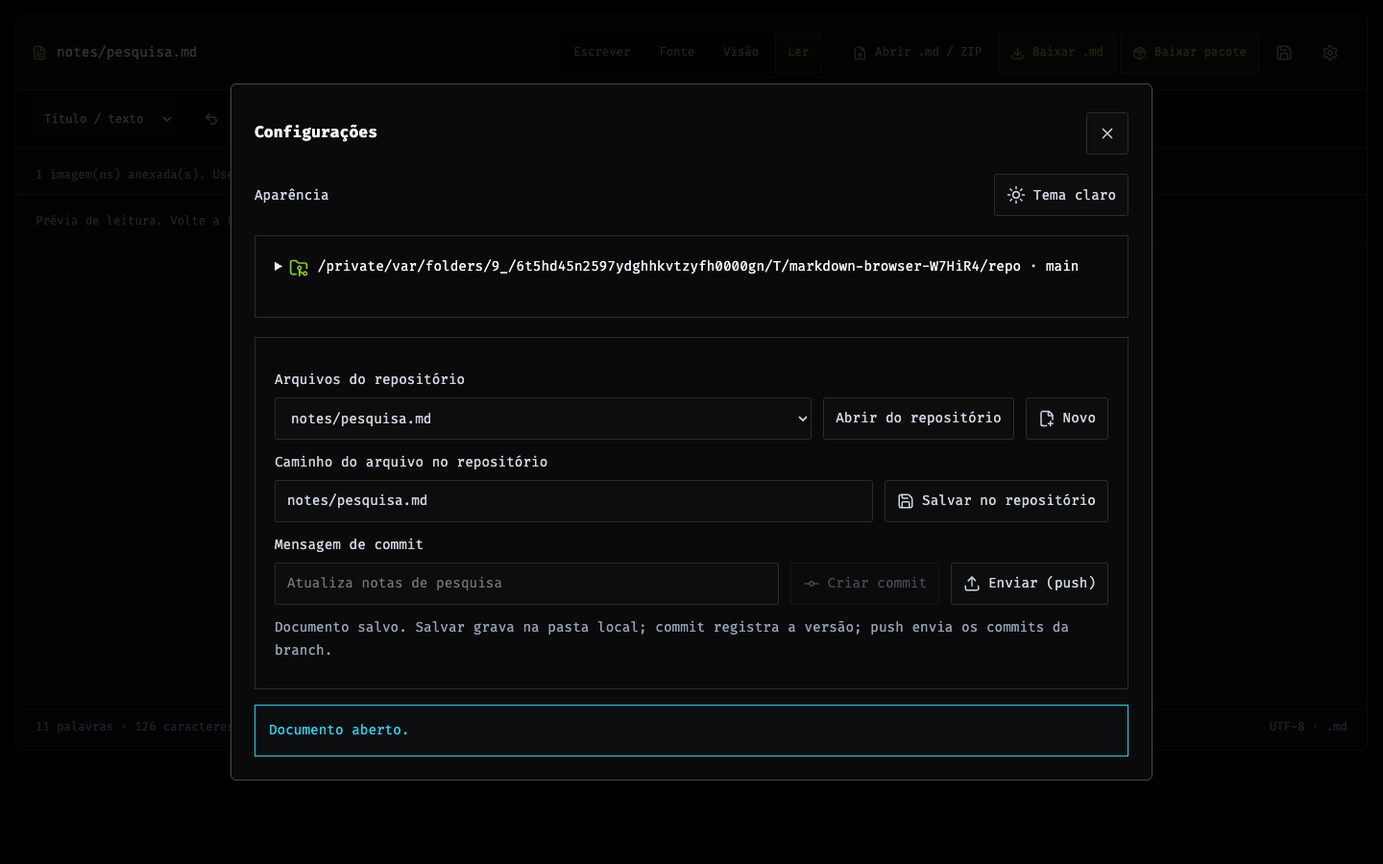
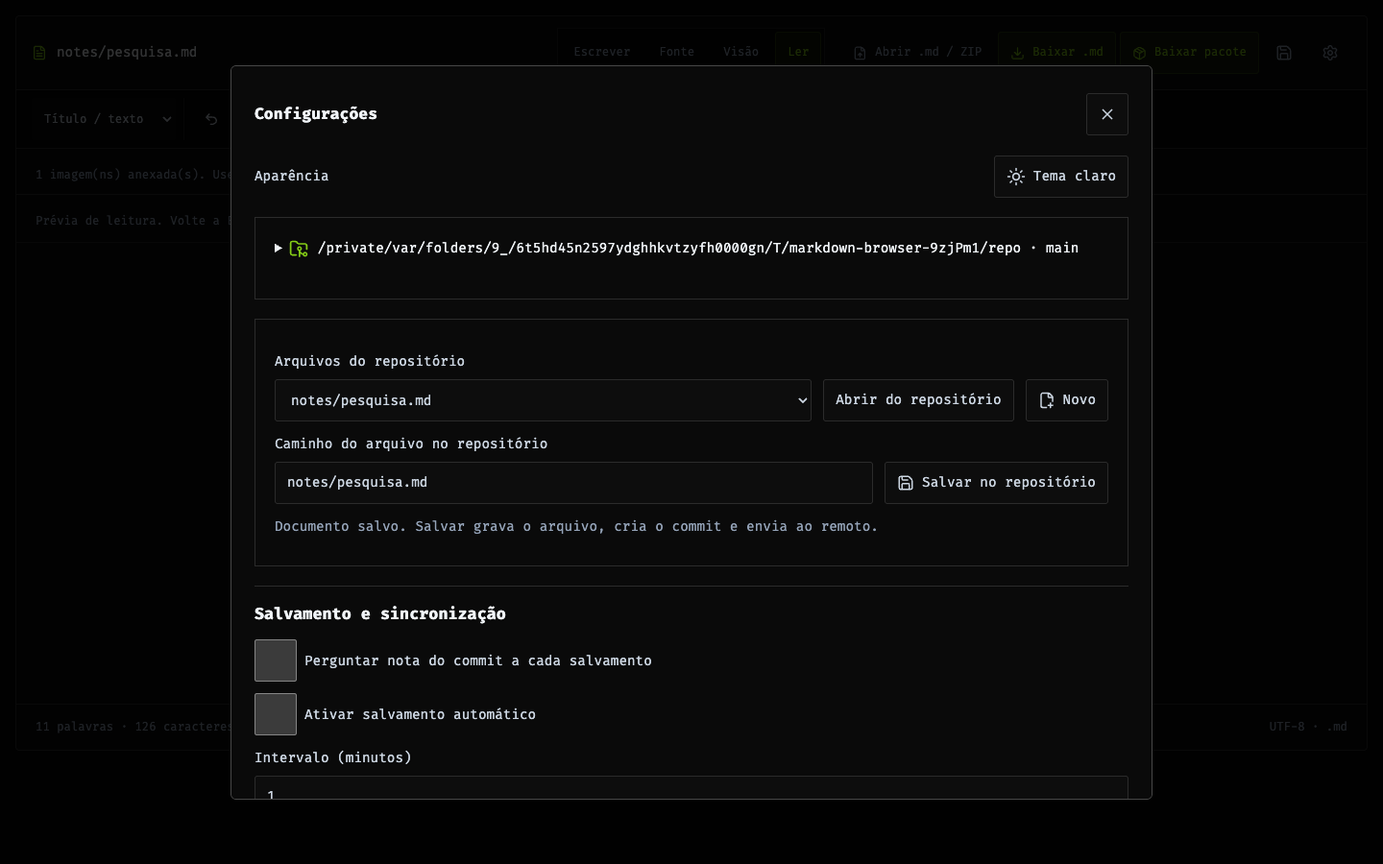
feat: commit and push on save with configurable autosave and notes

diff --git a/src/main.tsx b/src/main.tsx
@@ -1,6 +1,6 @@
-import { StrictMode, useEffect, useState } from 'react';
+import { StrictMode, useEffect, useRef, useState } from 'react';
 import { createRoot } from 'react-dom/client';
-import { FolderGit2, FolderOpen, Save, GitCommitHorizontal, Upload, Sun, Moon, FilePlus2, Settings, X } from 'lucide-react';
+import { FolderGit2, FolderOpen, Save, Upload, Sun, Moon, FilePlus2, Settings, X } from 'lucide-react';
 import { MarkdownWorkbench } from './components/Markdown/MarkdownWorkbench';
 import { EditorDialog } from './components/Markdown/EditorDialog';
 import type { MarkdownAsset } from './lib/markdown/assets';
@@ -16,6 +16,25 @@ interface RepositoryInfo {
   /** Human-readable Git short status. */
   status: string;
 }
+interface SavePreferences {
+  /** Ask for a commit note before each manual or scheduled save. */
+  askCommitNote: boolean;
+  /** Enable scheduled save/commit/push while the editor is open. */
+  autoSave: boolean;
+  /** Schedule interval in whole minutes, between 1 and 1440. */
+  intervalMinutes: number;
+}
+interface SaveResult {
+  /** Hash of the content successfully written to disk, even if Git failed. */
+  version: string;
+  /** Whether the saved document has been committed and pushed. */
+  synced: boolean;
+  /** Git operation that remains pending after a partial failure. */
+  stage?: 'commit' | 'push';
+  /** Readable Git failure returned with a successful local save. */
+  error?: string;
+}
+const defaultPreferences: SavePreferences = { askCommitNote: false, autoSave: false, intervalMinutes: 1 };
 interface DocumentFile {
   /** Document-relative image path. */
   path: string;
@@ -55,15 +74,21 @@ function App() {
   const [files, setFiles] = useState<string[]>([]);
   const [selected, setSelected] = useState('');
   const [name, setName] = useState('documento.md');
-  const [loadedName, setLoadedName] = useState('');
+  const [loadedName, setLoadedName] = useState('documento.md');
   const [value, setValue] = useState('# Meu documento\n\nComece a escrever.\n');
-  const [baseline, setBaseline] = useState('');
+  const [baseline, setBaseline] = useState('# Meu documento\n\nComece a escrever.\n');
   const [version, setVersion] = useState<string | null>(null);
   const [assets, setAssets] = useState<MarkdownAsset[]>([]);
   const [initialAssets, setInitialAssets] = useState<{path: string; file: File}[]>([]);
   const [documentId, setDocumentId] = useState(0);
   const [saveRevision, setSaveRevision] = useState(0);
-  const [message, setMessage] = useState('');
+  const [preferences, setPreferences] = useState<SavePreferences>(defaultPreferences);
+  const [preferenceDraft, setPreferenceDraft] = useState<SavePreferences>(defaultPreferences);
+  const [commitNoteOpen, setCommitNoteOpen] = useState(false);
+  const [commitNote, setCommitNote] = useState('');
+  const [pendingSync, setPendingSync] = useState(false);
+  const operationLock = useRef(false);
+  const autoSaveAction = useRef<() => void>(() => {});
   const [notice, setNotice] = useState('');
   const [error, setError] = useState('');
   const [busy, setBusy] = useState(false);
@@ -75,16 +100,18 @@ function App() {
     setFiles(info.repository ? await api<string[]>('files') : []);
     return info;
   }
-  useEffect(() => { void refresh().then(info => setSettingsOpen(!info.repository)).catch(cause => { setError(cause.message); setSettingsOpen(true); }); }, []);
+  useEffect(() => { void Promise.all([refresh(), api<SavePreferences>('preferences')]).then(([info, saved]) => { if (!info.repository) setSettingsOpen(true); setPreferences(saved); setPreferenceDraft(saved); }).catch(cause => { setError(cause.message); setSettingsOpen(true); }); }, []);
   useEffect(() => {
     if (!dirty) return;
     const warn = (event: BeforeUnloadEvent) => { event.preventDefault(); event.returnValue = ''; };
     window.addEventListener('beforeunload', warn); return () => window.removeEventListener('beforeunload', warn);
   }, [dirty]);
   async function run(action: () => Promise<void>) {
+    if (operationLock.current) return;
+    operationLock.current = true;
     setBusy(true); setError(''); setNotice('');
     try { await action(); } catch (cause) { setError(cause instanceof Error ? cause.message : String(cause)); }
-    finally { setBusy(false); }
+    finally { operationLock.current = false; setBusy(false); }
   }
   async function chooseRepository() {
     if (!discard()) return;
@@ -107,14 +134,31 @@ function App() {
   }
   const discard = () => !dirty || window.confirm('Há alterações não salvas. Deseja substituí-las?');
   function resetDocument(text = '', fileName = 'documento.md', hash: string | null = null, attached: {path: string; file: File}[] = []) {
-    setValue(text); setBaseline(text); setName(fileName); setLoadedName(hash ? fileName : ''); setVersion(hash);
-    setAssets([]); setInitialAssets(attached); setDocumentId(id => id + 1); setSaveRevision(0);
+    setValue(text); setBaseline(text); setName(fileName); setLoadedName(fileName); setVersion(hash);
+    setPendingSync(false); setAssets([]); setInitialAssets(attached); setDocumentId(id => id + 1); setSaveRevision(0);
   }
-  async function save() {
-    const result = await api<{version: string}>('save', { name, value, version: name === loadedName ? version : null, files: await Promise.all(assets.map(encodeAsset)) });
+  async function save(note: string) {
+    const result = await api<SaveResult>('save-sync', { name, value, message: note, version: name === loadedName ? version : null, files: await Promise.all(assets.map(encodeAsset)) });
     setVersion(result.version); setBaseline(value); setLoadedName(name); setSaveRevision(revision => revision + 1);
-    await refresh(); setNotice('Documento e imagens salvos no repositório local.');
+    setPendingSync(!result.synced);
+    await refresh();
+    if (result.synced) setNotice('Arquivo salvo, commit criado e enviado ao remoto.');
+    else setError(`Arquivo salvo localmente. ${result.stage === 'commit' ? 'Commit pendente' : 'Push pendente'}: ${result.error} Use Salvar novamente para tentar sincronizar.`);
   }
+  function requestSave(automatic = false) {
+    if (operationLock.current || busy || commitNoteOpen || !repository.repository) return;
+    if (preferences.askCommitNote) {
+      setCommitNote(''); setSettingsOpen(false); setCommitNoteOpen(true);
+    } else void run(() => save(`${automatic ? 'Auto-save' : 'Update'} ${name}`));
+  }
+  autoSaveAction.current = () => {
+    if ((dirty || pendingSync) && !busy && !settingsOpen && !commitNoteOpen) requestSave(true);
+  };
+  useEffect(() => {
+    if (!preferences.autoSave || !repository.repository) return;
+    const interval = window.setInterval(() => autoSaveAction.current(), preferences.intervalMinutes * 60000);
+    return () => window.clearInterval(interval);
+  }, [preferences.autoSave, preferences.intervalMinutes, repository.repository]);
   useEffect(() => {
     if (!notice) return;
     const timeout = window.setTimeout(() => setNotice(''), 4500);
@@ -124,7 +168,7 @@ function App() {
     const shortcut = (event: KeyboardEvent) => {
       if ((event.metaKey || event.ctrlKey) && event.key.toLowerCase() === 's') {
         event.preventDefault();
-        if (repository.repository && !busy) void run(save);
+        if (repository.repository && !busy) requestSave();
       }
     };
     window.addEventListener('keydown', shortcut);
@@ -144,15 +188,33 @@ function App() {
     </details>
     <fieldset className="document-controls" disabled={busy}>
       <div className="row"><label className="grow">Arquivos do repositório<select aria-label="Arquivos do repositório" value={selected} onChange={event => setSelected(event.target.value)}><option value="">Selecione um Markdown</option>{files.map(file => <option key={file} value={file}>{file}</option>)}</select></label><button disabled={!selected || !repository.repository} onClick={() => { if (!discard()) return; void run(async () => { const doc = await api<LoadedDocument>(`document?name=${encodeURIComponent(selected)}`); const attached = doc.files.map(file => ({ path: file.path, file: new File([Uint8Array.from(atob(file.data), char => char.charCodeAt(0))], file.path.split('/').at(-1)!, { type: file.mime }) })); resetDocument(doc.value, selected, doc.version, attached); setSettingsOpen(false); setNotice(doc.warnings.length ? `Aberto com avisos: ${doc.warnings.join('; ')}` : 'Documento aberto.'); }); }}>Abrir do repositório</button><button onClick={() => { if (discard()) { resetDocument(); setSettingsOpen(false); } }}><FilePlus2 size={18}/>Novo</button></div>
-      <div className="row"><label className="grow">Caminho do arquivo no repositório<input value={name} onChange={event => setName(event.target.value)} placeholder="notas/documento.md"/></label><button disabled={!repository.repository} onClick={() => void run(save)}><Save size={18}/>Salvar no repositório</button></div>
-      <div className="row"><label className="grow">Mensagem de commit<input value={message} onChange={event => setMessage(event.target.value)} placeholder="Atualiza notas de pesquisa"/></label><button disabled={!repository.repository || dirty || !message.trim()} onClick={() => void run(async () => { await api('commit', { name, message, assets: assets.map(asset => asset.path) }); await refresh(); setNotice('Commit criado. Use Enviar para publicar no remoto.'); })}><GitCommitHorizontal size={18}/>Criar commit</button><button disabled={!repository.repository} onClick={() => void run(async () => { await api('push', {}); await refresh(); setNotice('Commits enviados ao remoto.'); })}><Upload size={18}/>Enviar (push)</button></div>
-      <p>{busy ? 'Operação em andamento… Se abriu o seletor do macOS, escolha uma pasta ou cancele.' : dirty ? 'Há alterações não salvas no repositório.' : 'Documento salvo.'} Salvar grava na pasta local; commit registra a versão; push envia os commits da branch.</p>
+      <div className="row"><label className="grow">Caminho do arquivo no repositório<input value={name} onChange={event => setName(event.target.value)} placeholder="notas/documento.md"/></label><button disabled={!repository.repository} onClick={() => requestSave()}><Save size={18}/>Salvar no repositório</button></div>
+      {pendingSync && <button disabled={!repository.repository} onClick={() => requestSave()}><Upload size={18}/>Tentar sincronizar novamente</button>}
+      <p>{busy ? 'Salvando e sincronizando…' : pendingSync ? 'Arquivo local salvo; sincronização pendente.' : dirty ? 'Há alterações não salvas.' : 'Documento salvo.'} Salvar grava o arquivo, cria o commit e envia ao remoto.</p>
     </fieldset>
+    <section className="save-preferences" aria-label="Preferências de salvamento">
+      <h3>Salvamento e sincronização</h3>
+      <form onSubmit={event => { event.preventDefault(); void run(async () => { const saved = await api<SavePreferences>('preferences', preferenceDraft); setPreferences(saved); setPreferenceDraft(saved); setNotice('Preferências de salvamento atualizadas.'); }); }}>
+        <fieldset disabled={busy}>
+          <label className="check-option"><input type="checkbox" checked={preferenceDraft.askCommitNote} onChange={event => setPreferenceDraft({ ...preferenceDraft, askCommitNote: event.target.checked })}/>Perguntar nota do commit a cada salvamento</label>
+          <label className="check-option"><input type="checkbox" checked={preferenceDraft.autoSave} onChange={event => setPreferenceDraft({ ...preferenceDraft, autoSave: event.target.checked })}/>Ativar salvamento automático</label>
+          <label>Intervalo (minutos)<input type="number" min="1" max="1440" step="1" required value={preferenceDraft.intervalMinutes} onChange={event => setPreferenceDraft({ ...preferenceDraft, intervalMinutes: Number(event.target.value) })}/></label>
+          <p>O automático salva, cria o commit e envia ao remoto enquanto esta aba estiver aberta. Se pedir nota estiver ligado, aguarda a confirmação antes de salvar.</p>
+          <button type="submit">Salvar preferências</button>
+        </fieldset>
+      </form>
+    </section>
     {statusMessages}
     </div></EditorDialog>}
+    {commitNoteOpen && <EditorDialog title="Nota do commit" onClose={() => setCommitNoteOpen(false)}>
+      <form onSubmit={event => { event.preventDefault(); if (!commitNote.trim()) return; setCommitNoteOpen(false); void run(() => save(commitNote.trim())); }}>
+        <label>Nota do commit<textarea autoFocus required maxLength={1000} value={commitNote} onChange={event => setCommitNote(event.target.value)} placeholder="Descreva o que mudou"/></label>
+        <footer><button type="button" onClick={() => setCommitNoteOpen(false)}>Cancelar</button><button type="submit" disabled={!commitNote.trim()}>Salvar, commit e push</button></footer>
+      </form>
+    </EditorDialog>}
     {!settingsOpen && statusMessages}
     <fieldset disabled={busy} className="editor-container"><MarkdownWorkbench key={documentId} value={value} onChange={setValue} fileName={name} onFileNameChange={newName => { setName(newName); setVersion(null); setLoadedName(''); }} initialAssets={initialAssets} onAssetsChange={setAssets} saveRevision={saveRevision} readOnly={busy} actions={<>
-      {repository.repository && <button type="button" disabled={busy} aria-label="Salvar no repositório" title="Salvar no repositório (⌘S)" onClick={() => void run(save)}><Save size={18}/></button>}
+      {repository.repository && <button type="button" disabled={busy} aria-label="Salvar no repositório" title="Salvar no repositório (⌘S)" onClick={() => requestSave()}><Save size={18}/></button>}
       <button type="button" aria-label="Configurações" title="Configurações" aria-haspopup="dialog" aria-expanded={settingsOpen} onClick={() => setSettingsOpen(true)}><Settings size={18}/></button>
     </>}/></fieldset>
   </main>;

diff --git a/tests/editor.spec.ts b/tests/editor.spec.ts
@@ -53,14 +53,8 @@ for (const viewport of [{ name: 'desktop', width: 1440, height: 900 }, { name: '
       await page.getByLabel('Arquivos de imagem', { exact: true }).setInputFiles({ name: 'pixel.png', mimeType: 'image/png', buffer: image });
       await expect(page.getByText('1 imagem(ns) anexada(s).', { exact: false })).toBeVisible();
       await page.getByRole('button', { name: 'Salvar no repositório', exact: true }).click();
-      await expect(page.getByRole('status')).toHaveText('Documento e imagens salvos no repositório local.');
+      await expect(page.getByRole('status')).toHaveText('Arquivo salvo, commit criado e enviado ao remoto.');
       const saved = await readFile(join(repo,'notes/pesquisa.md'),'utf8'); expect(saved).toContain('# Pesquisa'); expect(saved).toContain('assets/');
-      await gear.click();
-      await page.getByLabel('Mensagem de commit').fill('Pesquisa com evidências');
-      await page.getByRole('button', { name: 'Criar commit' }).click();
-      await expect(page.getByRole('status')).toHaveText('Commit criado. Use Enviar para publicar no remoto.');
-      await page.getByRole('button', { name: 'Enviar (push)' }).click();
-      await expect(page.getByRole('status')).toHaveText('Commits enviados ao remoto.');
       expect(git('-C',remote,'show','main:notes/pesquisa.md')).toBe(saved);
       await page.reload();
       await expect(settings).toHaveCount(0);
@@ -81,6 +75,74 @@ for (const viewport of [{ name: 'desktop', width: 1440, height: 900 }, { name: '
       await settings.getByRole('button', { name: 'Fechar', exact: true }).click();
       await expect(page.locator('html')).toHaveAttribute('data-theme','light');
       await page.screenshot({ path: `docs/evidence/${viewport.name}-repository-document-light.png`, fullPage: true });
+      // Fake only browser time; filesystem, HTTP, Git commits and pushes remain real.
+      await page.clock.install();
+      await gear.click();
+      await expect(page.getByLabel('Intervalo (minutos)', { exact: true })).toHaveValue('1');
+      await page.getByLabel('Perguntar nota do commit a cada salvamento', { exact: true }).check();
+      await page.getByLabel('Ativar salvamento automático', { exact: true }).check();
+      await page.getByRole('button', { name: 'Salvar preferências', exact: true }).click();
+      await expect(page.getByRole('status')).toHaveText('Preferências de salvamento atualizadas.');
+      await page.getByRole('region', { name: 'Preferências de salvamento' }).scrollIntoViewIfNeeded();
+      expect(await settings.evaluate(el => el.scrollWidth <= el.clientWidth)).toBe(true);
+      await page.screenshot({ path: `docs/evidence/${viewport.name}-autosave-settings.png`, fullPage: true });
+      await settings.getByRole('button', { name: 'Fechar', exact: true }).click();
+      await page.getByRole('button', { name: 'Fonte', exact: true }).click();
+      await source.click(); await page.keyboard.insertText('Texto automático de um minuto.');
+      await page.clock.fastForward(60000);
+      const note = page.getByRole('dialog', { name: 'Nota do commit', exact: true });
+      await expect(note).toBeVisible();
+      expect(git('-C',remote,'show','main:notes/pesquisa.md')).toBe(saved);
+      await note.getByLabel('Nota do commit', { exact: true }).fill('Automatic one minute update');
+      await page.screenshot({ path: `docs/evidence/${viewport.name}-commit-note.png`, fullPage: true });
+      await note.getByRole('button', { name: 'Salvar, commit e push', exact: true }).click();
+      await expect(page.getByRole('status')).toHaveText('Arquivo salvo, commit criado e enviado ao remoto.');
+      expect(git('-C',remote,'show','main:notes/pesquisa.md')).toContain('Texto automático de um minuto.');
+      expect(git('-C',repo,'log','-1','--pretty=%s').trim()).toBe('Automatic one minute update');
+      const autoHead = git('-C',repo,'rev-parse','HEAD');
+      await page.clock.fastForward(120000);
+      await expect(note).toHaveCount(0);
+      expect(git('-C',repo,'rev-parse','HEAD')).toBe(autoHead);
+
+      // Canceling the note must not save, commit or push. Cmd+S can retry it.
+      await source.click(); await page.keyboard.insertText('Alteração para nota manual.');
+      await page.getByRole('button', { name: 'Salvar no repositório', exact: true }).click();
+      await expect(note).toBeVisible();
+      await note.getByRole('button', { name: 'Cancelar', exact: true }).click();
+      expect(git('-C',repo,'rev-parse','HEAD')).toBe(autoHead);
+      expect(await readFile(join(repo,'notes/pesquisa.md'),'utf8')).not.toContain('Alteração para nota manual.');
+      await page.keyboard.press('ControlOrMeta+s');
+      await expect(note).toBeVisible();
+      await note.getByLabel('Nota do commit', { exact: true }).fill('Manual save note');
+      await note.getByRole('button', { name: 'Salvar, commit e push', exact: true }).click();
+      await expect(page.getByRole('status')).toHaveText('Arquivo salvo, commit criado e enviado ao remoto.');
+      expect(git('-C',remote,'show','main:notes/pesquisa.md')).toContain('Alteração para nota manual.');
+
+      await gear.click();
+      await page.getByLabel('Intervalo (minutos)', { exact: true }).fill('2');
+      await page.getByLabel('Perguntar nota do commit a cada salvamento', { exact: true }).uncheck();
+      await page.getByRole('button', { name: 'Salvar preferências', exact: true }).click();
+      await expect(page.getByRole('status')).toHaveText('Preferências de salvamento atualizadas.');
+      await settings.getByRole('button', { name: 'Fechar', exact: true }).click();
+      await source.click(); await page.keyboard.insertText('Intervalo de dois minutos.');
+      await page.clock.fastForward(60000);
+      await expect(note).toHaveCount(0);
+      await page.clock.fastForward(60000);
+      await expect(note).toHaveCount(0);
+      await expect(page.getByRole('status')).toHaveText('Arquivo salvo, commit criado e enviado ao remoto.');
+      expect(git('-C',remote,'show','main:notes/pesquisa.md')).toContain('Intervalo de dois minutos.');
+
+      await page.reload();
+      await gear.click();
+      await expect(page.getByLabel('Perguntar nota do commit a cada salvamento', { exact: true })).not.toBeChecked();
+      await expect(page.getByLabel('Ativar salvamento automático', { exact: true })).toBeChecked();
+      await page.getByLabel('Perguntar nota do commit a cada salvamento', { exact: true }).uncheck();
+      await page.getByLabel('Ativar salvamento automático', { exact: true }).uncheck();
+      await expect(page.getByLabel('Intervalo (minutos)', { exact: true })).toHaveValue('2');
+      await page.getByLabel('Intervalo (minutos)', { exact: true }).fill('1');
+      await page.getByRole('button', { name: 'Salvar preferências', exact: true }).click();
+      await expect(page.getByRole('status')).toHaveText('Preferências de salvamento atualizadas.');
+      await settings.getByRole('button', { name: 'Fechar', exact: true }).click();
       const contrast = await page.evaluate(() => {
         const original = document.documentElement.dataset.theme;
         const results: {token: string; ratio: number}[] = [];

diff --git a/src/style.css b/src/style.css
@@ -43,3 +43,12 @@ html[data-theme="light"] { color-scheme: light; }
 
 .settings-theme { display: flex; align-items: center; justify-content: space-between; gap: 16px; margin-bottom: 20px; }
 .settings-content .toast { position: static; width: auto; max-width: none; margin: 16px 0 0; }
+
+.save-preferences { margin-top: 20px; padding-top: 16px; border-top: 1px solid var(--border-panel); }
+.save-preferences h3 { color: var(--text-primary); margin: 0 0 12px; }
+.save-preferences form, .save-preferences fieldset { display: grid; gap: 12px; width: 100%; }
+.check-option { display: flex; flex-direction: row; align-items: center; gap: 8px; }
+.check-option input { flex-shrink: 0; margin: 0; }
+textarea { font: inherit; font-size: 16px; color: var(--text-primary); background: var(--bg-input); border: 1px solid var(--border-strong); padding: 12px; width: 100%; min-height: 100px; resize: vertical; }
+.save-preferences label.check-option { min-width: 0; width: 100%; }
+.save-preferences label.check-option input[type="checkbox"] { width: 44px; min-width: 44px; max-width: 44px; flex: 0 0 44px; accent-color: var(--lime); }

diff --git a/playwright.config.ts b/playwright.config.ts
@@ -7,6 +7,6 @@ process.on('exit', () => rmSync(state, { recursive: true, force: true }));
 export default defineConfig({
   testDir: './tests', testMatch: '*.spec.ts', workers: 1, timeout: 60000,
   reporter: 'list',
-  use: { baseURL: 'http://127.0.0.1:43128', headless: true, screenshot: 'only-on-failure', channel: process.env.MARKDOWN_BROWSER_CHANNEL || undefined },
+  use: { actionTimeout: 10000, baseURL: 'http://127.0.0.1:43128', headless: true, screenshot: 'only-on-failure', channel: process.env.MARKDOWN_BROWSER_CHANNEL || undefined },
   webServer: { command: 'node server/index.mjs', url: 'http://127.0.0.1:43128/health', env: { PORT: '43128', MARKDOWN_STATE_DIR: state }, reuseExistingServer: false },
 });

diff --git a/README.md b/README.md
@@ -25,15 +25,27 @@ Abra **AB Markdown** na Mesa nas próximas vezes. O servidor escuta apenas em `1
 3. Para um repositório ainda não clonado, expanda **Clonar um repositório por URL**, informe a URL HTTPS/SSH e use **Selecionar onde clonar** para escolher a pasta de destino. Será criada uma subpasta com o nome do repositório, cujo caminho pode ser ajustado antes de clonar. O Git usa suas credenciais locais.
 4. Escolha um Markdown em **Arquivos do repositório** ou clique **Novo**.
 5. Informe um caminho relativo, por exemplo `pesquisa/contexto.md`, e clique **Salvar no repositório**.
-6. Preencha a mensagem e clique **Criar commit**. Depois, **Enviar (push)** publica os commits pendentes da branch no remoto configurado.
+6. O salvamento cria o commit e envia ao remoto automaticamente. Ative **Perguntar nota do commit a cada salvamento** nas configurações se quiser escrever a mensagem antes de salvar.
 
-Salvar grava o documento UTF-8 e suas imagens na cópia local. Commit e push são ações explícitas. O primeiro push de uma branch sem upstream deve ser configurado no Terminal com `git push -u origin NOME_DA_BRANCH`. A identidade Git (`user.name`/`user.email`) também deve estar configurada. A aplicação não coleta senhas nem configura autenticação: credenciais HTTPS, chave SSH e permissões remotas devem funcionar previamente no Terminal. Helpers que exigem interação podem precisar ser desbloqueados antes de abrir o app.
+Salvar grava o documento UTF-8 e suas imagens, cria um commit apenas desses arquivos e faz push. Sem nota personalizada, usa `Update caminho/do/arquivo.md` (ou `Auto-save ...` no automático). Não cria commits vazios se nada mudou. O primeiro push de uma branch sem upstream usa `origin` e configura o acompanhamento automaticamente. A identidade Git (`user.name`/`user.email`) também deve estar configurada. A aplicação não coleta senhas nem configura autenticação: credenciais HTTPS, chave SSH e permissões remotas devem funcionar previamente no Terminal. Helpers que exigem interação podem precisar ser desbloqueados antes de abrir o app.
 
 Ao abrir outro arquivo, criar um documento ou trocar de repositório, o editor pede confirmação se houver alterações pendentes. Se o arquivo for alterado fora do editor, salvar acusa conflito: reabra a versão atual ou escolha outro nome. Salvar com outro nome cria uma cópia; o original permanece.
 
+## Salvamento automático e notas de commit
+
+Na engrenagem, abra **Salvamento e sincronização**:
+
+- **Perguntar nota do commit a cada salvamento**: abre um diálogo antes de salvar, criar o commit e enviar. Vale para o botão, ⌘S e o salvamento automático. Cancelar não grava nem envia o documento.
+- **Ativar salvamento automático**: grava, cria o commit e faz push enquanto a aba estiver aberta, quando houver alterações ou uma sincronização pendente.
+- **Intervalo (minutos)**: padrão de **1 minuto**, configurável de 1 a 1440 minutos. Clique **Salvar preferências** para aplicar.
+
+As duas opções vêm desativadas. As preferências ficam no Mac e sobrevivem ao fechamento do app, à troca de porta e à mudança de repositório. O automático pausa enquanto as configurações ou a nota estão abertas e não cria versões de um documento inicial intocado. Se a nota estiver ativada, cada ciclo com alterações aguarda sua confirmação.
+
+Se o commit ou push falhar, o editor preserva a gravação local e mostra a etapa pendente. Salvar novamente tenta sincronizar usando a versão já gravada; uma falha de push não duplica o commit. O automático também tenta novamente no próximo intervalo. O Git continua respeitando hooks, identidade e credenciais locais; alterações já preparadas por outra ferramenta não entram no commit do editor. A execução do intervalo depende da aba aberta e pode ser adiada pelo navegador quando ela estiver suspensa.
+
 ## Editor
 
-Depois de configurar o repositório, a tela mostra somente o editor. A engrenagem abre as configurações, os arquivos do repositório e as ações de Git em uma janela separada. O botão de salvar na barra e o atalho **⌘S** gravam o documento sem abrir as configurações. Fechar essa janela ou usar Escape preserva o texto e o histórico de edição.
+Depois de configurar o repositório, a tela mostra somente o editor. A engrenagem abre as configurações, os arquivos do repositório e as preferências de salvamento em uma janela separada. O botão de salvar na barra e o atalho **⌘S** gravam o documento sem abrir as configurações. Fechar essa janela ou usar Escape preserva o texto e o histórico de edição.
 
 Mantém os modos **Escrever**, **Fonte**, **Visão** e **Ler**, formatação, desfazer/refazer, tabelas editáveis, tarefas, referências, imagens por seleção/colagem/arrastar, importação de Markdown/ZIP/Bear e exportação `.md`/ZIP. Imagens inseridas são gravadas na pasta `assets/` ao lado do documento; imagens remotas não são buscadas automaticamente. Os temas claro e escuro usam uma cópia dos tokens do app original.
 

diff --git a/docs/DESIGN.md b/docs/DESIGN.md
@@ -1,12 +1,12 @@
 # Standalone Markdown editor
 
-Approved scope: extract the Markdown Lab into a separately installable macOS local web application without changing the Lab. Preserve editing capabilities and add a configurable Git checkout, document persistence, explicit commits and pushes using existing local credentials.
+Approved scope: extract the Markdown Lab into a separately installable macOS local web application without changing the Lab. Preserve editing capabilities and add a configurable Git checkout, document persistence, automatic commit and push on save using existing local credentials.
 
 The isolated copy uses React/Vite and the original CodeMirror/Markdown components. A loopback-only Node HTTP server serves the built application and handles Git/filesystem operations. Repository selection uses a bundled native macOS directory chooser; clone destination selection proposes a new subfolder named after the remote. The installed app bundles an official Node LTS distribution and opens the default browser. No monorepo imports, external service or database is required.
 
 Once configured, the main screen contains only the workbench. A gear opens repository, file and Git controls in a native HTML dialog; closing it preserves the mounted editor and undo history. A toolbar save action and Cmd/Ctrl+S remain available directly. Notifications are temporary.
 
-Repository settings remain in the user's Application Support directory. New documents use an absent-file version; existing documents use a SHA-256 version. Saves reject conflicts, traversal, symlinks and Git internals. Raster attachments are stored relative to the document. Commits stage only the current document and its attachments and reject pre-existing staged work. Push uses the checkout's existing upstream.
+Repository settings remain in the user's Application Support directory. New documents use an absent-file version; existing documents use a SHA-256 version. Saves reject conflicts, traversal, symlinks and Git internals. Raster attachments are stored relative to the document. Commits stage only the current document and its attachments and reject pre-existing staged work. Push uses the checkout's existing upstream, or configures origin for the first push. Save-sync returns the new on-disk content hash even if a later Git operation fails; retries do not duplicate commits. Unchanged documents do not create empty commits. User preferences persist beside the repository setting: optional per-save commit notes, optional autosave, and a whole-minute interval defaulting to one minute. Scheduled saves skip unchanged documents and pause while settings or notes are open.
 
 The installer targets both Apple Silicon and Intel, validates its downloaded runtime using official SHA-256 sums, builds with the lockfile, generates an icon, and installs a `.app` plus a Desktop link. Validation covers real HTTP operations, a temporary Git remote, browser navigation on desktop/mobile and installed macOS launching.
 

diff --git a/docs/VALIDATION.md b/docs/VALIDATION.md
@@ -10,8 +10,8 @@ Ambiente: macOS Darwin 25.6.0, Apple Silicon. Aplicação instalada em `~/Applic
 - Abertura pelo ícone, resposta saudável do servidor em loopback e carregamento do editor.
 - Seleção de pasta real no diálogo nativo do macOS; retorno do caminho confirmado.
 - Cancelamento do diálogo pela API da aplicação instalada: HTTP 200, `directory: null`.
-- 10 testes HTTP com Git real: sessão/origem/host, conexão e listagem, texto/imagens, conflitos, caminhos inválidos/symlinks, gravações concorrentes, commit seletivo e push, proteção de stage, rejeição de credenciais na URL e clonagem HTTPS com CA local.
-- 2 jornadas Playwright: desktop 1440×900 e celular 390×844. Selecionar/cancelar pasta, conectar, escolher destino de clone, editar, inserir imagem, salvar, criar commit, push e reabrir com imagens.
+- 16 testes HTTP com Git real: sessão/origem/host, conexão e listagem, texto/imagens, conflitos, caminhos inválidos/symlinks, gravações concorrentes, commit seletivo e push, proteção de stage, rejeição de credenciais na URL e clonagem HTTPS com CA local; save/commit/push automático, ausência de commits vazios, retry após falha de push sem commit duplicado, recuperação de hook, primeiro upstream e preferências persistidas em novo processo.
+- 2 jornadas Playwright: desktop 1440×900 e celular 390×844. Selecionar/cancelar pasta, conectar, escolher destino de clone, editar, inserir imagem, salvar, commit/push automáticos e reabrir com imagens; relógio do navegador simula ciclos de 1 e 2 minutos com Git/HTTP reais, nota obrigatória, cancelamento sem gravação, ⌘S e persistência das preferências.
 - Interface focada no editor após configuração, inclusive ao recarregar; engrenagem abre configurações; Escape fecha sem perder o texto; gravação disponível na barra e por ⌘S.
 - Temas claro/escuro e contraste ≥4,5:1 dos tokens de texto e acento contra a superfície usada pelo editor, nos dois temas. Sem overflow horizontal no celular.
 - Nenhuma alteração em arquivos rastreados de `ab/app/frontend/`; o arquivo GLB não rastreado que já existia no início foi preservado.

diff --git a/docs/evidence/README.md b/docs/evidence/README.md
@@ -27,3 +27,15 @@ Depois de conectar o repositório, a tela principal mantém apenas o editor. O p
 ![Configurações no desktop](desktop-settings.png)
 
 ![Configurações no celular](mobile-settings.png)
+
+## Salvamento automático e nota do commit
+
+O relógio do navegador avança os intervalos de um e dois minutos; gravação, commits e pushes usam Git e HTTP reais. O remoto só recebe a alteração após confirmar a nota, quando essa opção está ativa. Cancelar preserva o conteúdo ainda não salvo no editor.
+
+![Preferências de salvamento no desktop](desktop-autosave-settings.png)
+
+![Preferências de salvamento no celular](mobile-autosave-settings.png)
+
+![Nota do commit no desktop](desktop-commit-note.png)
+
+![Nota do commit no celular](mobile-commit-note.png)
